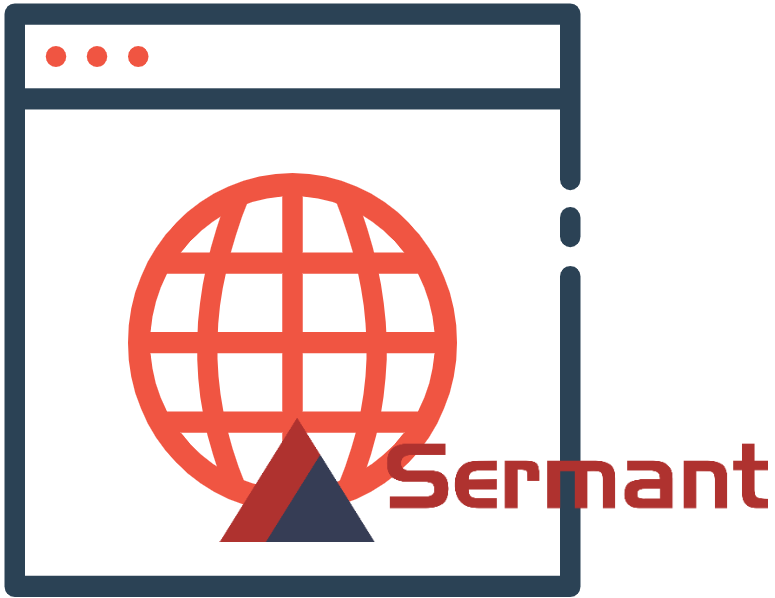
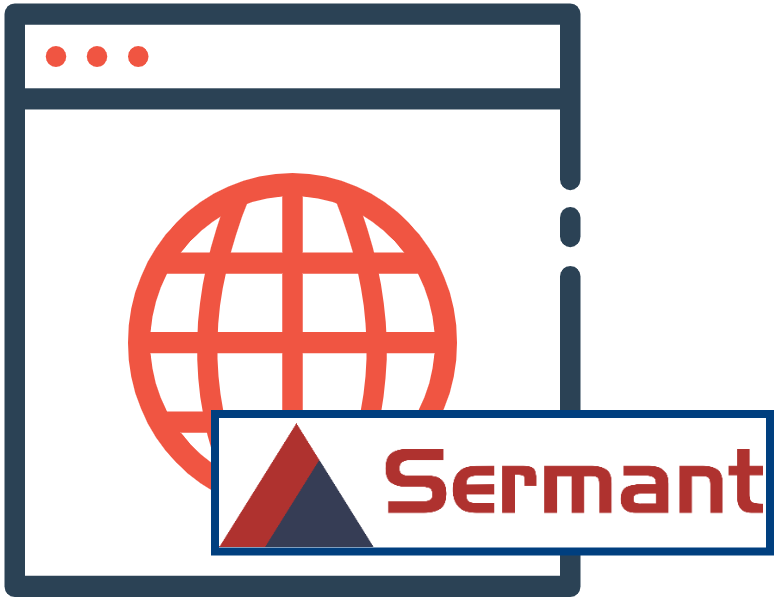
修改注册曲线及图表

Changed region(s): [[0.2477, 0.6622, 1.0, 0.9331]]

diff --git a/sermant-backend-lite/src/main/webapp/sermant-frontend/src/views/ShowcaseView.vue b/sermant-backend-lite/src/main/webapp/sermant-frontend/src/views/ShowcaseView.vue
@@ -8,11 +8,11 @@
     </div>
     <div style="width: 100%; height: 20%">
       <div style="float: left" ref="consumer">
-        <img src="../assets/img/webWithSermant.png" class="bar" style="width:100px" />
+        <img src="../assets/img/webWithSermantB.png" class="bar" style="width:100px" />
         <p style="margin: 0px; word-break: break-all; width: 75px">{{ consumer }}</p>
       </div>
       <div style="float: right" ref="provider">
-        <img src="../assets/img/serverWithSermant.png" class="bar" style="width:100px" />
+        <img src="../assets/img/serverWithSermantB.png" class="bar" style="width:100px" />
         <p style="margin: 0px; word-break: break-all; width: 75px">{{ provider }}</p>
       </div>
     </div>
@@ -22,7 +22,7 @@
         <p style="margin: 0px">HIRO总线</p>
       </div>
       <div style="float: right">
-        <img src="../assets/svg/server.svg" class="bar" ref="providerB" />
+        <img src="../assets/svg/server.svg" class="bar" ref="providerB" style="width:100px;height:100px"/>
         <p style="margin: 0px; width: 75px">其他服务</p>
       </div>
     </div>
@@ -129,14 +129,12 @@ export default {
           startSocket: "top",
           endSocket: "left",
           path: "fluid",
-          color: "#999999",
+          color: "#D8D8BF",
           gradient: true,
           hide: true,
-          dash: true,
-          middleLabel: LeaderLine.obj.captionLabel("注册", {
-            color: "gray",
-            fontSize: 30,
-            offset: [100, 500],
+          // dash: true,
+          middleLabel: LeaderLine.obj.captionLabel("注册到注册中心", {
+            color: "black",
           }),
           endPlug: "behind",
         }
@@ -150,14 +148,12 @@ export default {
           startSocket: "top",
           endSocket: "right",
           path: "fluid",
-          color: "#999999",
+          color: "#D8D8BF",
           gradient: true,
           hide: true,
-          dash: true,
-          middleLabel: LeaderLine.obj.captionLabel("注册", {
-            color: "gray",
-            fontSize: 30,
-            offset: [100, 500],
+          // dash: true,
+          middleLabel: LeaderLine.obj.captionLabel("注册到注册中心", {
+            color: "black",
           }),
           endPlug: "behind",
         }
@@ -170,7 +166,7 @@ export default {
         {
           startSocket: "right",
           endSocket: "left",
-          path: "fluid",
+          path: "straight",
           color: "#339900",
           gradient: true,
           hide: true,
@@ -235,7 +231,7 @@ export default {
         {
           startSocket: "right",
           endSocket: "left",
-          path: "fluid",
+          path: "straight",
           color: "#999999",
           gradient: true,
           hide: true,
